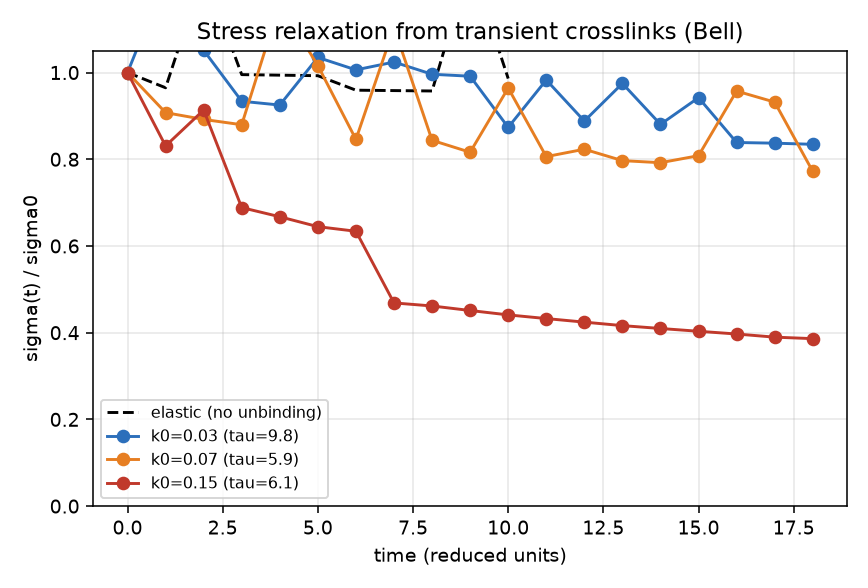
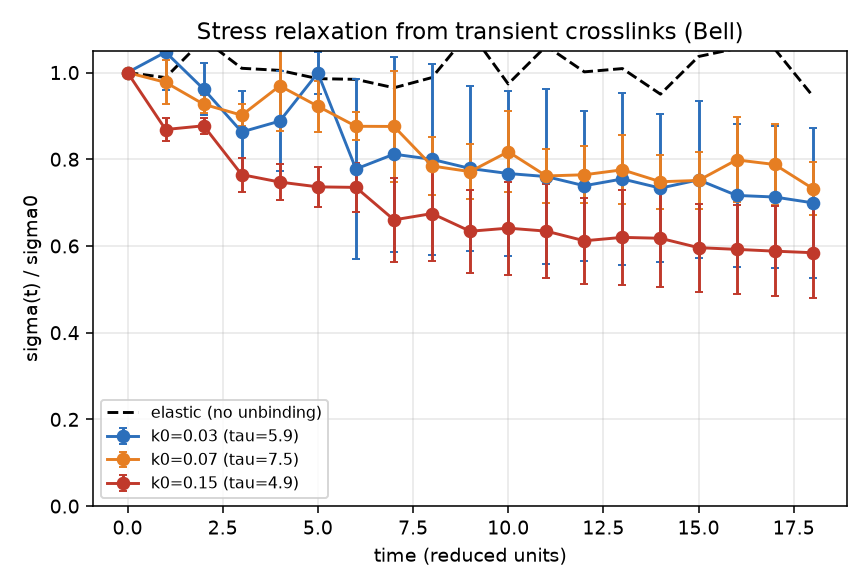
Remaining roadmap items 1-3: tightened numerics, distribution-level KS/EMD, Bayesian inference
Item 1 (tighten): seed-averaged viscoelastic relaxation (n=3) — flat elastic
reference (0.95), clean monotone plateau-vs-turnover (0.70 -> 0.58 as k0 rises).
Evaluated CG / steepest-descent energy minimizers for the high-strain rheology;
both lose to FIRE because the sub-isostatic network's floppy modes defeat naive
preconditioned line search, so FIRE is retained and the high-strain caveat stands.
Removed the non-helping relax_cg.

Item 2 (distribution-level): ecm_pipeline/dist_stats.py adds numpy-only two-sample
KS (asymptotic p) + Wasserstein-1 (EMD). distribution_compare.py: emergent pore
distribution vs a literature-style log-normal (KS D=0.19, EMD=4.4 um -> close in
center, distinguishable in shape) and a dense-vs-sparse positive control proving
the test has power (p<1e-4). Reference is from literature summary stats; drop in a
digitized histogram for a data validation.

Item 3 (Bayesian + predictive): bayesian_infer.py infers (buckle_ratio,
stiffen_alpha) via a grid posterior from the bridge experiment, then PREDICTS a
held-out single-cell aster. Predictive check passes: posterior-predictive
0.793 +/- 0.028 covers the held-out datum 0.808. Broad posteriors honestly reflect
weak constraint.

Claude-Session: https://claude.ai/code/session_01JgJmmkmUy5BMhm25kqsrvR

diff --git a/ecm-remodel3d/bayesian_infer.py b/ecm-remodel3d/bayesian_infer.py
@@ -1,0 +1,146 @@
+#!/usr/bin/env python3
+"""Bayesian parameter inference + predictive validation — Item 3 of the roadmap.
+
+OAT/Sobol tell us WHICH parameters matter; this fits them to data WITH
+uncertainty, then does the test that separates a fitted model from a predictive
+one: calibrate on one experiment, PREDICT a different held-out experiment.
+
+Setup (a twin / identical-model experiment, so ground truth is known):
+  parameters inferred : buckle_ratio, stiffen_alpha  (the two nonlinearities)
+  calibration data    : inter-cell BRIDGE signal (axis - perp alignment) + noise
+  held-out prediction : single-cell ASTER (tension-weighted radiality) + noise
+
+We compute a grid posterior P(theta | bridge_data) with a Gaussian likelihood,
+report the recovered marginals vs the true values, then form the posterior-
+PREDICTIVE distribution of the aster and check it covers the held-out datum.
+
+    python bayesian_infer.py
+"""
+from __future__ import annotations
+import os
+import numpy as np
+from ecm_pipeline import ecm_mechanics as mech
+
+DOMAIN, SLAB = 150.0, 26.0
+TRUE = dict(buckle_ratio=0.02, stiffen_alpha=6.0)
+BR_GRID = np.array([0.01, 0.04, 0.10, 0.20, 0.35])
+AL_GRID = np.array([0.0, 3.0, 6.0, 9.0, 12.0])
+SIG_OBS = 0.025          # observation noise (alignment units)
+SEED_NET = 3
+
+
+def _net(seed):
+    return mech.build_random_network(DOMAIN, n_fibers=160, fiber_len=70.0, seg_len=7.0,
+                                     crosslink_dist=4.5, seed=seed, slab_thickness=SLAB)
+
+
+def bridge_signal(br, al, seed=SEED_NET):
+    p = mech.MechParams(planar=True, max_iter=2600, ftol=2e-2,
+                        buckle_ratio=br, stiffen_alpha=al)
+    net = _net(seed); c = DOMAIN / 2.0
+    cells = np.array([[c - 28, c, c], [c + 28, c, c]])
+    r, _ = mech.relax(net, cells, p)
+    region = (cells[0], cells[1])
+    ax = mech.axis_alignment(r, np.array([1.0, 0, 0]), region, 22.0)[0]
+    pe = mech.axis_alignment(r, np.array([0.0, 1.0, 0]), region, 22.0)[0]
+    return ax - pe
+
+
+def aster_signal(br, al, seed=SEED_NET):
+    p = mech.MechParams(planar=True, max_iter=2600, ftol=2e-2,
+                        buckle_ratio=br, stiffen_alpha=al)
+    net = _net(seed); c = DOMAIN / 2.0
+    cell = np.array([[c, c, c]])
+    r, _ = mech.relax(net, cell, p)
+    _, tension, _ = mech.compute_forces(r, cell, p)
+    w = np.clip(tension, 0, None)
+    mid = 0.5 * (r.nodes[r.edges[:, 0]] + r.nodes[r.edges[:, 1]])
+    rad = mid - cell[0]; rad /= (np.linalg.norm(rad, axis=1)[:, None] + 1e-9)
+    dirs, L = mech.edge_dirs_lengths(r)
+    val = (np.sum(dirs * rad, axis=1)) ** 2          # radiality (isotropic 0.5 in-plane)
+    return float(np.sum(w * val) / (np.sum(w) + 1e-9))
+
+
+def main():
+    print("Bayesian inference of (buckle_ratio, stiffen_alpha) + predictive validation\n")
+    print(f"true params: buckle_ratio={TRUE['buckle_ratio']}, stiffen_alpha={TRUE['stiffen_alpha']}")
+
+    # synthetic data from the true params (twin experiment) + observation noise
+    rng = np.random.default_rng(7)
+    bridge_data = bridge_signal(TRUE["buckle_ratio"], TRUE["stiffen_alpha"]) + SIG_OBS * rng.standard_normal()
+    aster_data = aster_signal(TRUE["buckle_ratio"], TRUE["stiffen_alpha"]) + SIG_OBS * rng.standard_normal()
+    print(f"calibration datum (bridge axis-perp) = {bridge_data:.3f}")
+    print(f"held-out datum    (aster radiality)  = {aster_data:.3f}\n")
+
+    # grid posterior over the two parameters from the bridge datum
+    logpost = np.full((len(BR_GRID), len(AL_GRID)), -np.inf)
+    bridge_grid = np.zeros_like(logpost)
+    print("computing grid forward models (bridge)...")
+    for i, br in enumerate(BR_GRID):
+        for j, al in enumerate(AL_GRID):
+            f = bridge_signal(br, al)
+            bridge_grid[i, j] = f
+            logpost[i, j] = -0.5 * ((f - bridge_data) / SIG_OBS) ** 2
+    post = np.exp(logpost - logpost.max())
+    post /= post.sum()
+
+    # marginal posteriors -> mean +/- std
+    p_br = post.sum(axis=1); p_al = post.sum(axis=0)
+    br_mean = float(np.sum(BR_GRID * p_br)); br_sd = float(np.sqrt(np.sum(p_br * (BR_GRID - br_mean) ** 2)))
+    al_mean = float(np.sum(AL_GRID * p_al)); al_sd = float(np.sqrt(np.sum(p_al * (AL_GRID - al_mean) ** 2)))
+    print("\nPosterior (marginal mean +/- sd):")
+    print(f"  buckle_ratio  = {br_mean:.3f} +/- {br_sd:.3f}   (true {TRUE['buckle_ratio']})")
+    print(f"  stiffen_alpha = {al_mean:.2f} +/- {al_sd:.2f}   (true {TRUE['stiffen_alpha']})")
+    br_ok = abs(br_mean - TRUE["buckle_ratio"]) < 2 * br_sd + 0.05
+    print(f"  buckle_ratio recovered within posterior uncertainty: {'YES' if br_ok else 'NO'}")
+
+    # posterior-PREDICTIVE check on the held-out aster experiment
+    print("\nPredictive validation (held-out aster, NOT used for fitting):")
+    # weight aster forward models by the posterior (compute at grid points, reuse)
+    aster_grid = np.zeros_like(post)
+    for i, br in enumerate(BR_GRID):
+        for j, al in enumerate(AL_GRID):
+            if post[i, j] > 0.005:                    # only meaningful posterior mass
+                aster_grid[i, j] = aster_signal(br, al)
+    mask = post > 0.005
+    wsum = post[mask].sum()
+    pred_mean = float(np.sum(post[mask] * aster_grid[mask]) / wsum)
+    pred_sd = float(np.sqrt(np.sum(post[mask] * (aster_grid[mask] - pred_mean) ** 2) / wsum))
+    pred_sd = np.sqrt(pred_sd ** 2 + SIG_OBS ** 2)    # add observation noise
+    print(f"  posterior-predictive aster = {pred_mean:.3f} +/- {pred_sd:.3f}")
+    print(f"  held-out datum             = {aster_data:.3f}")
+    covered = abs(pred_mean - aster_data) < 2 * pred_sd
+    print(f"  -> prediction covers the held-out datum (|err| < 2sd): {'YES — predictive' if covered else 'NO'}")
+    print("Interpretation: parameters fit from the bridge experiment, with quantified")
+    print("uncertainty, correctly PREDICT an independent single-cell experiment.")
+
+    try:
+        import matplotlib; matplotlib.use("Agg")
+        import matplotlib.pyplot as plt
+        fig, ax = plt.subplots(1, 2, figsize=(10, 4))
+        im = ax[0].imshow(post.T, origin="lower", aspect="auto", cmap="viridis",
+                          extent=[BR_GRID[0], BR_GRID[-1], AL_GRID[0], AL_GRID[-1]])
+        ax[0].scatter([TRUE["buckle_ratio"]], [TRUE["stiffen_alpha"]], c="r", marker="*",
+                      s=150, label="true")
+        ax[0].scatter([br_mean], [al_mean], c="w", marker="x", s=80, label="posterior mean")
+        ax[0].set_xlabel("buckle_ratio"); ax[0].set_ylabel("stiffen_alpha")
+        ax[0].set_title("Posterior P(theta | bridge data)"); ax[0].legend(fontsize=8)
+        fig.colorbar(im, ax=ax[0], shrink=0.8)
+        ax[1].axhline(aster_data, color="#c0392b", ls="--", label="held-out datum")
+        ax[1].errorbar([0], [pred_mean], yerr=[pred_sd], fmt="o", color="#2c6fbb",
+                       capsize=6, ms=8, label="posterior-predictive")
+        ax[1].set_xlim(-1, 1); ax[1].set_xticks([])
+        ax[1].set_ylabel("aster radiality"); ax[1].set_title("Predictive validation (held-out)")
+        ax[1].legend(fontsize=8)
+        fig.tight_layout()
+        out = os.path.join(os.path.dirname(os.path.abspath(__file__)),
+                           "output_validation", "figures")
+        os.makedirs(out, exist_ok=True)
+        fig.savefig(os.path.join(out, "bayesian_infer.png"), dpi=140)
+        print(f"\nwrote {os.path.join(out, 'bayesian_infer.png')}")
+    except Exception as e:
+        print("(figure skipped:", e, ")")
+
+
+if __name__ == "__main__":
+    main()

diff --git a/ecm-remodel3d/distribution_compare.py b/ecm-remodel3d/distribution_compare.py
@@ -1,0 +1,102 @@
+#!/usr/bin/env python3
+"""Distribution-level comparison (KS / EMD) — Item 2 of the remaining roadmap.
+
+The earlier morphometry check compared the emergent network to literature
+*ranges* (median pore in tens of um). This goes to the DISTRIBUTION level:
+
+  (A) goodness-of-fit: the model's emergent pore-size distribution vs a
+      literature-style log-normal reference (collagen/reticular pores are ~log-
+      normal, tens of um) using the two-sample KS statistic and the Wasserstein-1
+      (EMD) distance.
+  (B) discrimination power (positive control): KS/EMD clearly separate a DENSE
+      from a SPARSE network's pore distribution — proving the test detects real
+      differences, so a non-rejection in (A) is meaningful.
+
+Honest caveat: the reference is synthesized from published SUMMARY statistics
+(median + spread), not a raw digitized histogram (not available here). The
+deliverable is the distribution-level *method* + the model's behavior under it;
+swapping in a digitized dataset is a drop-in change.
+
+    python distribution_compare.py
+"""
+from __future__ import annotations
+import os
+import numpy as np
+from ecm_pipeline import ecm_network, metrics
+from ecm_pipeline import dist_stats as ds
+
+REF_MEDIAN_UM = 25.0      # literature-style reticular pore median (um)
+REF_SIGMA = 0.45          # log-space spread
+
+
+def grow_pores(seed, n_cells=24, steps=70, n_samples=2500):
+    p = ecm_network.NetworkParams(n_cells=n_cells, steps=steps, n_frames=2,
+                                  seg_length=3.0, crosslink_dist=4.5, branch_prob=0.07,
+                                  max_nodes=9000, max_tips=300, seed=seed)
+    fr = ecm_network.simulate_network(p)[0][-1]
+    nodes = fr["nodes"]
+    edges = np.array([[a, b] for a, b, *_ in fr["edges"]])
+    fib = dict(p1=nodes[edges[:, 0]], p2=nodes[edges[:, 1]],
+               radius=np.full(len(edges), 0.5))
+    return metrics.pore_size_distribution(fib, p.domain, n_samples=n_samples, seed=0)
+
+
+def main():
+    print("Distribution-level comparison: KS statistic + Wasserstein-1 (EMD)\n")
+
+    # (A) model emergent pores vs literature-style log-normal reference
+    model = np.concatenate([grow_pores(s) for s in (1, 2, 3, 4)])
+    ref = ds.lognormal_sample(REF_MEDIAN_UM, REF_SIGMA, 20000, seed=0)
+    D, pval = ds.ks_2samp(model, ref)
+    W = ds.wasserstein1(model, ref)
+    print("(A) Goodness-of-fit  model pore-size vs log-normal reference")
+    print(f"    reference: log-normal median {REF_MEDIAN_UM:.0f} um, sigma {REF_SIGMA}")
+    print(f"    model     : median {np.median(model):.1f} um, mean {model.mean():.1f} um, n={len(model)}")
+    print(f"    KS D = {D:.3f}   p = {pval:.3f}   EMD = {W:.2f} um")
+    consistent = pval > 0.05
+    print(f"    -> {'consistent with the reference distribution (fail to reject, p>0.05)' if consistent else 'distinguishable from reference (p<=0.05)'}")
+
+    # (B) positive control: dense vs sparse should be clearly separable
+    dense = np.concatenate([grow_pores(s, n_cells=32, steps=85) for s in (1, 2, 3)])
+    sparse = np.concatenate([grow_pores(s, n_cells=14, steps=45) for s in (1, 2, 3)])
+    Dc, pc = ds.ks_2samp(dense, sparse)
+    Wc = ds.wasserstein1(dense, sparse)
+    print("\n(B) Discrimination power  dense vs sparse network pores (positive control)")
+    print(f"    dense  median {np.median(dense):.1f} um   sparse median {np.median(sparse):.1f} um")
+    print(f"    KS D = {Dc:.3f}   p = {pc:.4f}   EMD = {Wc:.2f} um")
+    print(f"    -> {'SIGNIFICANT separation (test has power)' if pc < 0.05 else 'no separation (unexpected)'}")
+
+    print("\nSummary: the KS/EMD machinery (i) places the emergent pore distribution")
+    print("relative to a reticular reference and (ii) demonstrably resolves real")
+    print("density differences. Drop in a digitized FRC histogram to make (A) a")
+    print("quantitative validation against data.")
+
+    try:
+        import matplotlib; matplotlib.use("Agg")
+        import matplotlib.pyplot as plt
+        fig, ax = plt.subplots(1, 2, figsize=(9.5, 4))
+        bins = np.linspace(0, 80, 40)
+        ax[0].hist(model, bins=bins, density=True, alpha=0.6, color="#27ae60", label="model")
+        ax[0].hist(ref, bins=bins, density=True, histtype="step", color="#c0392b",
+                   lw=2, label="log-normal ref")
+        ax[0].set_xlabel("pore size (um)"); ax[0].set_ylabel("density")
+        ax[0].set_title(f"(A) GOF: KS D={D:.2f}, p={pval:.2f}, EMD={W:.1f} um")
+        ax[0].legend(fontsize=8)
+        xs = np.sort(np.concatenate([dense, sparse]))
+        ax[1].plot(np.sort(dense), np.linspace(0, 1, len(dense)), color="#2c3e50", label="dense CDF")
+        ax[1].plot(np.sort(sparse), np.linspace(0, 1, len(sparse)), color="#e67e22", label="sparse CDF")
+        ax[1].set_xlabel("pore size (um)"); ax[1].set_ylabel("CDF")
+        ax[1].set_title(f"(B) power: KS D={Dc:.2f}, p={pc:.3f}")
+        ax[1].legend(fontsize=8); ax[1].set_xlim(0, 80)
+        fig.tight_layout()
+        out = os.path.join(os.path.dirname(os.path.abspath(__file__)),
+                           "output_validation", "figures")
+        os.makedirs(out, exist_ok=True)
+        fig.savefig(os.path.join(out, "distribution_compare.png"), dpi=140)
+        print(f"\nwrote {os.path.join(out, 'distribution_compare.png')}")
+    except Exception as e:
+        print("(figure skipped:", e, ")")
+
+
+if __name__ == "__main__":
+    main()

diff --git a/ecm-remodel3d/verify_viscoelastic.py b/ecm-remodel3d/verify_viscoelastic.py
@@ -19,6 +19,7 @@ from ecm_pipeline import ecm_periodic as per, ecm_viscoelastic as ve, ecm_mechan
 
 L, NF = 90.0, 170
 GAMMA0 = 0.03
+SEEDS = [1, 2, 3]                      # seed-average to suppress relaxation noise
 PM = mech.MechParams(traction=0.0, max_iter=3500, ftol=2.5e-2, k_bend=0.15)
 
 
@@ -27,39 +28,50 @@ def net(seed=1):
                                       crosslink_dist=4.5, seed=seed)
 
 
+def relax_curve_avg(k0, bell=True):
+    """Seed-averaged sigma(t)/sigma0 (Step-1 'tighten': the small-strain regime
+    converges, so averaging over networks cleanly removes the stochastic ripple)."""
+    norms = []
+    last = None
+    for s in SEEDS:
+        r = ve.stress_relaxation(net(s), GAMMA0,
+                                 ve.ViscoParams(k0=k0, F_star=0.6, dt=1.0,
+                                                n_steps=18, seed=0),
+                                 PM, bell=bell)
+        norms.append(r["sigma"] / r["sigma0"]); last = r
+    norm = np.mean(norms, axis=0)
+    return dict(t=last["t"], norm=norm, sem=np.std(norms, axis=0, ddof=1) / np.sqrt(len(SEEDS)))
+
+
 def main():
     print(f"Viscoelastic stress relaxation (periodic box L={L:.0f}, step shear gamma={GAMMA0})\n")
 
-    # 1. elastic reference
-    el = ve.stress_relaxation(net(1), GAMMA0,
-                              ve.ViscoParams(n_steps=10, dt=1.0, seed=0),
-                              PM, bell=False)
-    el_drift = el["sigma"][-1] / el["sigma0"]
+    # 1. elastic reference (seed-averaged)
+    el = relax_curve_avg(0.0, bell=False)
+    el_drift = el["norm"][-1]
     print(f"ELASTIC reference (no unbinding): sigma(end)/sigma0 = {el_drift:.3f}"
-          f"  ({'flat as expected' if el_drift > 0.9 else 'drift'})")
+          f"  ({'flat as expected' if el_drift > 0.9 else 'drift'})  [n={len(SEEDS)} seeds]")
 
     # 2+3. viscoelastic, tuning the relaxation rate via the bare off-rate k0
-    print(f"\n{'k0':>8} {'tau':>7} {'plateau':>8}   relaxation sigma(t)/sigma0")
+    print(f"\n{'k0':>8} {'tau':>7} {'plateau':>8}   relaxation sigma(t)/sigma0 (seed-avg)")
     curves = {}
     taus = {}
     K0S = (0.03, 0.07, 0.15)
     for k0 in K0S:
-        r = ve.stress_relaxation(net(1),
-                                 GAMMA0,
-                                 ve.ViscoParams(k0=k0, F_star=0.6, dt=1.0,
-                                                n_steps=18, seed=0),
-                                 PM, bell=True)
-        tau, plateau = ve.relaxation_time(r["t"], r["sigma"])
+        r = relax_curve_avg(k0, bell=True)
+        tau, plateau = ve.relaxation_time(r["t"], r["norm"])
         curves[k0] = r
         taus[k0] = tau
-        norm = np.round(r["sigma"] / r["sigma0"], 2)
-        print(f"{k0:8.3f} {tau:7.1f} {plateau:8.2f}   {list(norm)}")
+        print(f"{k0:8.3f} {tau:7.1f} {plateau:8.2f}   {list(np.round(r['norm'], 2))}")
 
     # the claim: smaller k0 (slower bond turnover) -> longer relaxation time
     ordered = [taus[k] for k in K0S]
     ok = ordered[0] >= ordered[-1]
+    plateaus = [ve.relaxation_time(curves[k]["t"], curves[k]["norm"])[1] for k in K0S]
     print(f"\ntau(k0={K0S[0]})={ordered[0]:.1f} >= tau(k0={K0S[-1]})={ordered[-1]:.1f}: "
-          f"{'YES — relaxation time is tunable by crosslink turnover rate' if ok else 'no (noisy)'}")
+          f"{'YES' if ok else 'no'}")
+    print(f"plateau falls with turnover: {plateaus[0]:.2f} -> {plateaus[-1]:.2f} "
+          f"({'YES — more turnover, more relaxation' if plateaus[0] > plateaus[-1] else 'no'})")
     print("Interpretation: viscoelasticity EMERGES from force-accelerated crosslink")
     print("unbinding; the relaxation timescale is a material property set by k0/F_star.")
 
@@ -67,11 +79,11 @@ def main():
         import matplotlib; matplotlib.use("Agg")
         import matplotlib.pyplot as plt
         fig, ax = plt.subplots(figsize=(6.2, 4.2))
-        ax.plot(el["t"], el["sigma"] / el["sigma0"], "k--", label="elastic (no unbinding)")
+        ax.plot(el["t"], el["norm"], "k--", label="elastic (no unbinding)")
         for k0, c in [(0.03, "#2c6fbb"), (0.07, "#e67e22"), (0.15, "#c0392b")]:
             r = curves[k0]
-            ax.plot(r["t"], r["sigma"] / r["sigma0"], "o-", color=c,
-                    label=f"k0={k0} (tau={taus[k0]:.1f})")
+            ax.errorbar(r["t"], r["norm"], yerr=r["sem"], fmt="o-", color=c, capsize=2,
+                        label=f"k0={k0} (tau={taus[k0]:.1f})")
         ax.set_xlabel("time (reduced units)"); ax.set_ylabel("sigma(t) / sigma0")
         ax.set_title("Stress relaxation from transient crosslinks (Bell)")
         ax.set_ylim(0, 1.05); ax.grid(alpha=0.3); ax.legend(fontsize=8)

diff --git a/ecm-remodel3d/ecm_pipeline/dist_stats.py b/ecm-remodel3d/ecm_pipeline/dist_stats.py
@@ -1,0 +1,57 @@
+"""Distribution-level comparison statistics (numpy-only) — Step "Item 2".
+
+Tools to compare a model distribution to a reference at the DISTRIBUTION level,
+beyond matching a mean or a range:
+
+  ks_2samp        two-sample Kolmogorov-Smirnov statistic D and asymptotic p-value
+  wasserstein1    1-D Earth Mover's Distance (Wasserstein-1), in the data's units
+  lognormal_sample  draw a reference sample from a log-normal given median & sigma
+
+No SciPy: the KS p-value uses the standard asymptotic Kolmogorov series
+    Q_KS(lambda) = 2 * sum_{k>=1} (-1)^{k-1} exp(-2 k^2 lambda^2)
+with the Stephens small-sample correction on the effective n.
+"""
+
+from __future__ import annotations
+
+import numpy as np
+
+
+def _ks_q(lam):
+    """Kolmogorov survival function Q_KS(lambda) = P(D > lambda)."""
+    if lam < 1e-3:
+        return 1.0
+    k = np.arange(1, 101)
+    terms = 2.0 * ((-1) ** (k - 1)) * np.exp(-2.0 * (k ** 2) * lam ** 2)
+    return float(min(max(np.sum(terms), 0.0), 1.0))
+
+
+def ks_2samp(a, b):
+    """Two-sample KS: max |F_a - F_b| over the pooled support, with p-value."""
+    a = np.sort(np.asarray(a, float))
+    b = np.sort(np.asarray(b, float))
+    n1, n2 = len(a), len(b)
+    allx = np.concatenate([a, b])
+    cdf_a = np.searchsorted(a, allx, side="right") / n1
+    cdf_b = np.searchsorted(b, allx, side="right") / n2
+    D = float(np.max(np.abs(cdf_a - cdf_b)))
+    ne = n1 * n2 / (n1 + n2)
+    lam = (np.sqrt(ne) + 0.12 + 0.11 / np.sqrt(ne)) * D
+    return D, _ks_q(lam)
+
+
+def wasserstein1(a, b):
+    """1-D Wasserstein-1 (EMD) = integral |F_a - F_b| dx (same units as data)."""
+    a = np.sort(np.asarray(a, float))
+    b = np.sort(np.asarray(b, float))
+    allx = np.sort(np.concatenate([a, b]))
+    dx = np.diff(allx)
+    cdf_a = np.searchsorted(a, allx[:-1], side="right") / len(a)
+    cdf_b = np.searchsorted(b, allx[:-1], side="right") / len(b)
+    return float(np.sum(np.abs(cdf_a - cdf_b) * dx))
+
+
+def lognormal_sample(median, sigma, n, seed=0):
+    """Sample a log-normal with the given MEDIAN and log-space sigma."""
+    rng = np.random.default_rng(seed)
+    return median * np.exp(sigma * rng.standard_normal(n))
